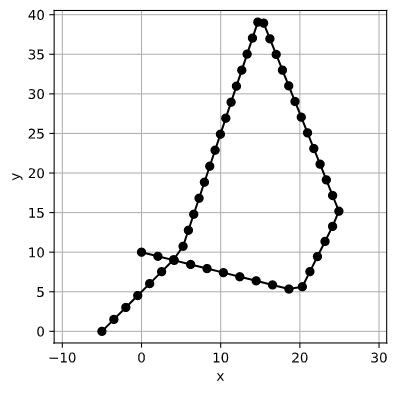
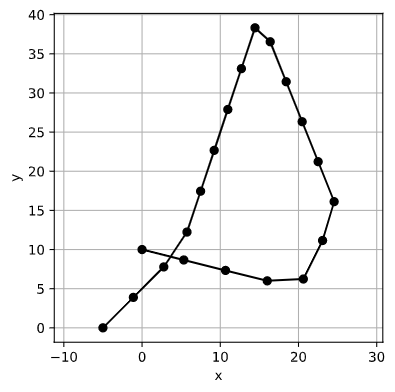
plot images and usage docs updated

Changed region(s): [[0.0304, 0.0306, 1.0, 0.9796]]

diff --git a/docs/source/usage.rst b/docs/source/usage.rst
@@ -55,7 +55,6 @@ Translate the route to the origin such that a specified corner of the route alig
 .. code-block:: python
 
     r2 = r.align_to_origin(align_corner='bottomleft')
-
     r2.plotroute()
 
 .. image:: https://raw.githubusercontent.com/jhags/routely/main/docs/images/usage_plot4.png
@@ -100,19 +99,31 @@ More complex transformation
 Interpolation
 ^^^^^^^^^^^^
 
+Interpolate points along the route using two methods, the first specifying the equidistant spacing between the new points, and the second specifying the total number of points to use between the start and end. The route is interpolate in the x-y plane, while the z-axis data is interpolated accordingly.
+
 .. code-block:: python
 
-    # Interpolate using equidistant steps spaced at equal distance of 2.
+    # Interpolate using equidistant steps spaced at
+    # equal distance of 2.
     r2 = r.interpolate(kind='equidistant_steps', num=2)
-    r2.plotroute()
-
-    # Interpolate using absolute steps and specify a total of 50 points from start to end.
-    r2 = r.interpolate(kind='absolute_steps', num=50)
     r2.plotroute(markers=True)
+    r2.plot_z()
+
+    # Interpolate using absolute steps and specify
+    # a total of 20 points from start to end.
+    r2 = r.interpolate(kind='absolute_steps', num=20)
+    r2.plotroute(markers=True)
+    r2.plot_z()
+
 
 .. image:: https://raw.githubusercontent.com/jhags/routely/main/docs/images/usage_plot8.png
     :width: 49%
+.. image:: https://raw.githubusercontent.com/jhags/routely/main/docs/images/usage_plot8_1.png
+    :width: 49%
+
 .. image:: https://raw.githubusercontent.com/jhags/routely/main/docs/images/usage_plot9.png
+    :width: 49%
+.. image:: https://raw.githubusercontent.com/jhags/routely/main/docs/images/usage_plot9_1.png
     :width: 49%
 
 Smoothing
